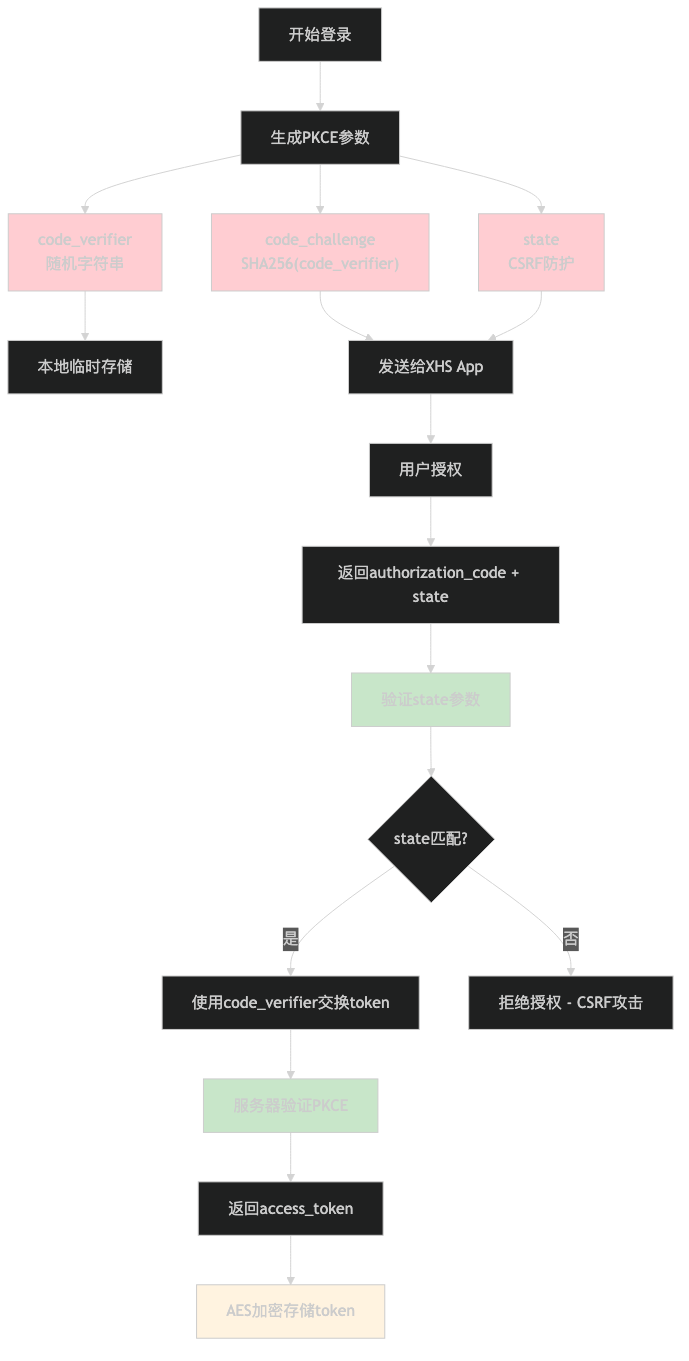
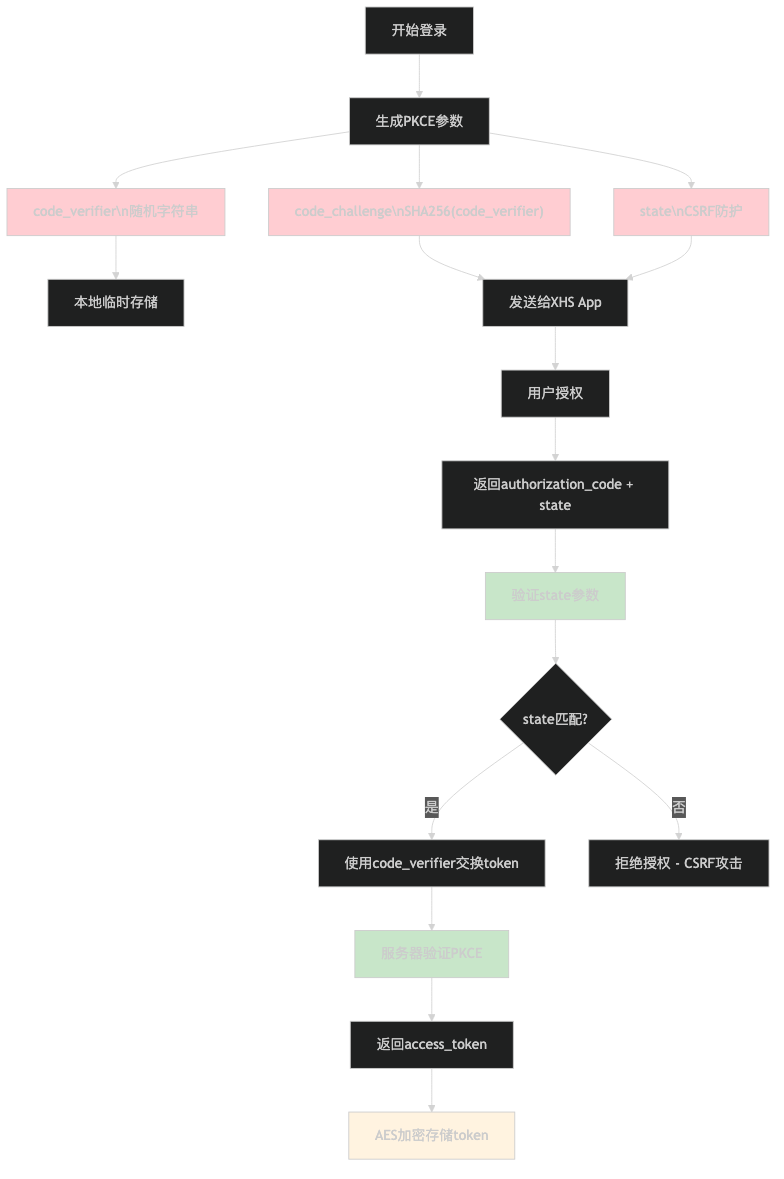
Fix Mermaid syntax for GitHub renderer compatibility
- Replace HTML <br/> tags with \n for proper GitHub rendering
- Update both .mmd source files and documentation
- Regenerate PNG images with corrected syntax
- Ensure all diagrams display properly on GitHub

🤖 Generated with [Claude Code](https://claude.ai/code)

Changed region(s): [[0.0, 0.1527, 1.0, 0.6718], [0.2134, 0.6718, 1.0, 1.0], [0.3353, 0.0, 0.6401, 0.1221]]

diff --git a/SDK_FLOW_DIAGRAM.md b/SDK_FLOW_DIAGRAM.md
@@ -63,10 +63,10 @@ sequenceDiagram
     PKCE-->>-Auth: 返回PKCE参数
 
     Auth->>Auth: 创建AuthRequest
-    Note right of Auth: AuthRequest包含:<br/>- appId<br/>- scopes<br/>- state<br/>- code_challenge<br/>- code_challenge_method
+    Note right of Auth: AuthRequest包含:\n- appId\n- scopes\n- state\n- code_challenge\n- code_challenge_method
 
     Auth->>+XHS: startActivityForResult(Intent)
-    Note right of Auth: Intent目标:<br/>com.xingin.xhs/.oauth.OAuthActivity
+    Note right of Auth: Intent目标:\ncom.xingin.xhs/.oauth.OAuthActivity
 
     Note over App,Storage: 3. 小红书App处理
     XHS->>XHS: 显示授权页面
@@ -83,7 +83,7 @@ sequenceDiagram
 
     alt 授权成功
         Auth->>+Server: 交换authorization_code
-        Note right of Auth: TokenRequest包含:<br/>- code<br/>- client_id<br/>- client_secret<br/>- code_verifier
+        Note right of Auth: TokenRequest包含:\n- code\n- client_id\n- client_secret\n- code_verifier
         
         Server->>Server: 验证code_verifier
         Server-->>-Auth: 返回access_token+refresh_token
@@ -113,30 +113,30 @@ sequenceDiagram
 ```mermaid
 graph LR
     subgraph "公共API层"
-        A[XHSLoginManager<br/>单例模式]
+        A["XHSLoginManager\n单例模式"]
     end
     
     subgraph "核心业务层"
-        B[AuthManager<br/>授权管理]
-        C[PKCEHelper<br/>安全增强]
+        B["AuthManager\n授权管理"]
+        C["PKCEHelper\n安全增强"]
     end
     
     subgraph "网络层"
-        D[ApiClient<br/>HTTP客户端]
-        E[AuthService<br/>接口定义]
+        D["ApiClient\nHTTP客户端"]
+        E["AuthService\n接口定义"]
     end
     
     subgraph "安全层"
-        F[CryptoUtils<br/>加密工具]
-        G[SignatureVerifier<br/>签名验证]
+        F["CryptoUtils\n加密工具"]
+        G["SignatureVerifier\n签名验证"]
     end
     
     subgraph "存储层"
-        H[StorageUtils<br/>本地存储]
+        H["StorageUtils\n本地存储"]
     end
     
     subgraph "工具层"
-        I[AppUtils<br/>应用检测]
+        I["AppUtils\n应用检测"]
     end
     
     A --> B
@@ -173,10 +173,10 @@ sequenceDiagram
     Note over ThirdParty,Entry: App-to-App授权通信
     
     ThirdParty->>+Intent: 创建Intent
-    Note right of Intent: ComponentName:<br/>com.xingin.xhs/<br/>.oauth.OAuthActivity
+    Note right of Intent: ComponentName:\ncom.xingin.xhs/\n.oauth.OAuthActivity
     
     Intent->>Intent: 添加AuthRequest数据
-    Note right of Intent: Extra: EXTRA_AUTH_REQUEST
+    Note right of Intent: Extra:\nEXTRA_AUTH_REQUEST
     
     ThirdParty->>+XHSApp: startActivityForResult()
     
@@ -184,13 +184,13 @@ sequenceDiagram
     XHSApp->>XHSApp: 处理用户授权决定
     
     XHSApp->>+Entry: 返回结果Intent
-    Note right of Entry: Extra: EXTRA_AUTH_RESPONSE<br/>包含AuthResponse对象
+    Note right of Entry: Extra:\nEXTRA_AUTH_RESPONSE\n包含AuthResponse对象
     
     Entry->>Entry: 处理AuthResponse
     Entry-->>-ThirdParty: setResult() + finish()
     
     ThirdParty->>ThirdParty: onActivityResult()
-    Note right of ThirdParty: 解析AuthResponse<br/>继续后续流程
+    Note right of ThirdParty: 解析AuthResponse\n继续后续流程
 ```
 
 ## 5. 安全机制流程图
@@ -200,9 +200,9 @@ sequenceDiagram
 ```mermaid
 graph TD
     A[开始登录] --> B[生成PKCE参数]
-    B --> C[code_verifier<br/>随机字符串]
-    B --> D[code_challenge<br/>SHA256(code_verifier)]
-    B --> E[state<br/>CSRF防护]
+    B --> C["code_verifier\n随机字符串"]
+    B --> D["code_challenge\nSHA256(code_verifier)"]
+    B --> E["state\nCSRF防护"]
     
     C --> F[本地临时存储]
     D --> G[发送给XHS App]
